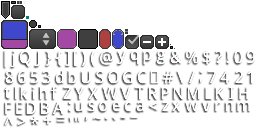
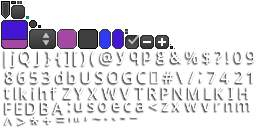
separated some GameMenu logic to more individual methods

Changed region(s): [[0.0, 0.1562, 0.125, 0.3125], [0.375, 0.2188, 0.5, 0.375]]

diff --git a/core/src/main/java/io/github/spacecraft/GameMenu.java b/core/src/main/java/io/github/spacecraft/GameMenu.java
@@ -22,17 +22,32 @@ public class GameMenu {
     private Window popupWindow;
     private float width;
     private float height;
+    private float edgeMargin;
+
+    private TextureRegionDrawable purpleBackground;
+    private TextureRegionDrawable blueBackground;
 
     public GameMenu(Stage stage) {
         this.stage = stage;
-
         skin = new Skin(Gdx.files.internal("uiskin/uiskin.json"));
 
-        createMenuInterface();
-
+        edgeMargin = 25; // the gap around sides of screen (so nav does not squeeze against edge)
         width = Gdx.graphics.getWidth();
         height = Gdx.graphics.getHeight();
 
+        // create button colours
+        Pixmap pixmap = new Pixmap(1, 1, Pixmap.Format.RGBA8888);
+        pixmap.setColor(new Color(66 / 255f, 22 / 255f, 210 / 255f, 1));
+        pixmap.fill();
+        Texture purpleBackgroundTexture = new Texture(pixmap);
+        purpleBackground = new TextureRegionDrawable(new TextureRegion(purpleBackgroundTexture));
+
+        pixmap.setColor(new Color(46 / 255f, 59 / 255f, 240 / 255f, 1));
+        pixmap.fill();
+        Texture blueBackgroundTexture = new Texture(pixmap);
+        blueBackground = new TextureRegionDrawable(new TextureRegion(blueBackgroundTexture));
+
+        createMenuInterface();
     }
 
     private void createMenuInterface() {
@@ -48,35 +63,21 @@ public class GameMenu {
         Texture laboratoryTexture = new Texture("menu_icons/laboratory.png");
         Texture shopTexture = new Texture("menu_icons/shop.png");
 
-        // create purple background for image buttons
-        Pixmap pixmap = new Pixmap(1, 1, Pixmap.Format.RGBA8888);
-        pixmap.setColor(new Color(66 / 255f, 22 / 255f, 210 / 255f, 1));
-        pixmap.fill();
-        Texture purpleBackgroundTexture = new Texture(pixmap);
-        TextureRegionDrawable purpleBackgroundDrawable = new TextureRegionDrawable(new TextureRegion(purpleBackgroundTexture));
+        // create menu buttons
+        ImageButton upgradesButton = createMenuButton(upgradeTexture);
+        ImageButton refineryButton = createMenuButton(refineryTexture);
+        ImageButton homeButton = createMenuButton(homeTexture);
+        ImageButton laboratoryButton = createMenuButton(laboratoryTexture);
+        ImageButton shopButton = createMenuButton(shopTexture);
 
-        // create menu buttons and apply background colour
-        ImageButton upgradesButton = new ImageButton(new TextureRegionDrawable(new TextureRegion(upgradeTexture)));
-        upgradesButton.getStyle().up = purpleBackgroundDrawable;
-        ImageButton refineryButton = new ImageButton(new TextureRegionDrawable(new TextureRegion(refineryTexture)));
-        refineryButton.getStyle().up = purpleBackgroundDrawable;
-        ImageButton homeButton = new ImageButton(new TextureRegionDrawable(new TextureRegion(homeTexture)));
-        homeButton.getStyle().up = purpleBackgroundDrawable;
-        ImageButton laboratoryButton = new ImageButton(new TextureRegionDrawable(new TextureRegion(laboratoryTexture)));
-        laboratoryButton.getStyle().up = purpleBackgroundDrawable;
-        ImageButton shopButton = new ImageButton(new TextureRegionDrawable(new TextureRegion(shopTexture)));
-        shopButton.getStyle().up = purpleBackgroundDrawable;
-
-        // calculate button size to fit edge to edge of screen
+        // calculate button size dynamically to fit all screen sizes
         int numOfButtons = 5;
-        float edgeMargin = 25;
         float margin = 10; // space between buttons
         float totalMargin = margin * (numOfButtons - 1);
-
-        float availableWidth = Gdx.graphics.getWidth() - edgeMargin * 2 - totalMargin;
-
+        float availableWidth = width - edgeMargin * 2 - totalMargin;
         float buttonWidth = availableWidth / numOfButtons;
         float buttonHeight = buttonWidth;
+
         // add buttons to table
         buttonTable.add(upgradesButton).size(buttonWidth, buttonHeight).padRight(margin);
         buttonTable.add(refineryButton).size(buttonWidth, buttonHeight).padRight(margin);
@@ -84,60 +85,37 @@ public class GameMenu {
         buttonTable.add(laboratoryButton).size(buttonWidth, buttonHeight).padRight(margin);
         buttonTable.add(shopButton).size(buttonWidth, buttonHeight);
 
-        buttonTable.setY(25);
+        buttonTable.setY(edgeMargin);
 
         // add table to stage
         stage.addActor(buttonTable);
 
         // add listeners to buttons
-        upgradesButton.addListener(new ClickListener() {
-            @Override
-            public void clicked(InputEvent event, float x, float y) {
-                Table upgradesContent = createUpgradesContent();
-                showPopup("Upgrades", buttonHeight, upgradesContent);
-            }
-        });
-        refineryButton.addListener(new ClickListener() {
-            @Override
-            public void clicked(InputEvent event, float x, float y) {
-                Table refineryContent = createRefineryContent();
-                showPopup("Refinery", buttonHeight, refineryContent);
-            }
-        });
+        upgradesButton.addListener(createButtonListener("Upgrades", buttonHeight, createUpgradesContent()));
+        refineryButton.addListener(createButtonListener("Refinery", buttonHeight, createRefineryContent()));
         homeButton.addListener(new ClickListener() {
-            @Override
+            @Override // home button is done manually because it just closes other menus
             public void clicked(InputEvent event, float x, float y) {
                 closePopup();
             }
         });
-        laboratoryButton.addListener(new ClickListener() {
-            @Override
-            public void clicked(InputEvent event, float x, float y) {
-                Table upgradesContent = createUpgradesContent();
-                showPopup("Laboratory", buttonHeight, upgradesContent);
-            }
-        });
-        shopButton.addListener(new ClickListener() {
-            @Override
-            public void clicked(InputEvent event, float x, float y) {
-                Table upgradesContent = createUpgradesContent();
-                showPopup("Shop", buttonHeight, upgradesContent);
-            }
-        });
+        laboratoryButton.addListener(createButtonListener("Laboratory", buttonHeight, createLaboratoryContent()));
+        shopButton.addListener(createButtonListener("Shop", buttonHeight, createShopContent()));
     }
+
     private void showPopup(String title, float buttonHeight, Table contentTable) {
         // remove previous popup if exists
         if (popupWindow != null) {
             popupWindow.remove();
         }
 
-        float totalWidth = width - 25 * 2;
+        float totalWidth = width - edgeMargin * 2;
 
         // create new popup window
         popupWindow = new Window(title, skin);
         popupWindow.setY(buttonHeight + 50);
         popupWindow.setSize(totalWidth, height * 0.3f);
-        popupWindow.setX(25);
+        popupWindow.setX(edgeMargin);
 
         // add content table to window
         popupWindow.add(contentTable).expand().fill(); // make content fill the popup
@@ -156,12 +134,31 @@ public class GameMenu {
         }
     }
 
+    private ImageButton createMenuButton(Texture buttonTexture) {
+        ImageButton button = new ImageButton(new TextureRegionDrawable(new TextureRegion(buttonTexture)));
+        button.getStyle().up = purpleBackground; // default background colour
+        button.getStyle().down = blueBackground; // on press background colour
+        return button;
+
+    }
+
+    private ClickListener createButtonListener(String buttonTitle, float buttonHeight, Table contentTable) {
+        return new ClickListener() {
+            @Override
+            public void clicked(InputEvent event, float x, float y) {
+                showPopup(buttonTitle, buttonHeight, contentTable);
+            }
+        };
+    }
+
     private Table createUpgradesContent() {
         Table contentTable = new Table();
         contentTable.setFillParent(true);
 
+        // add specific menu content here
         TextButton upgradeHarvestTimeButton = new TextButton("Upgrade Harvest Time", skin);
         upgradeHarvestTimeButton.setSize(100, 100);
+
         // add listeners for buttons
         upgradeHarvestTimeButton.addListener(new ClickListener() {
             @Override
@@ -174,11 +171,11 @@ public class GameMenu {
 
         return contentTable;
     }
-
     private Table createRefineryContent() {
         Table contentTable = new Table();
         contentTable.setFillParent(true);
 
+        // add specific menu content here
         TextButton refineAsteroidButton = new TextButton("Refine Asteroid", skin);
 
         // add listeners for buttons
@@ -190,6 +187,44 @@ public class GameMenu {
         });
 
         contentTable.add(refineAsteroidButton).pad(10).expandX();
+
+        return contentTable;
+    }
+    private Table createLaboratoryContent() {
+        Table contentTable = new Table();
+        contentTable.setFillParent(true);
+
+        // add specific menu content here
+        TextButton researchButton = new TextButton("Research in Laboratory", skin);
+
+        // add listeners for buttons
+        researchButton.addListener(new ClickListener() {
+            @Override
+            public void clicked(InputEvent event, float x, float y) {
+                Gdx.app.log("Laboratory", "Researching in Laboratory");
+            }
+        });
+
+        contentTable.add(researchButton).pad(10).expandX();
+
+        return contentTable;
+    }
+    private Table createShopContent() {
+        Table contentTable = new Table();
+        contentTable.setFillParent(true);
+
+        // add specific menu content here
+        TextButton shopButton = new TextButton("Buy Something", skin);
+
+        // add listeners for buttons
+        shopButton.addListener(new ClickListener() {
+            @Override
+            public void clicked(InputEvent event, float x, float y) {
+                Gdx.app.log("Shop", "Buying something in Shop");
+            }
+        });
+
+        contentTable.add(shopButton).pad(10).expandX();
 
         return contentTable;
     }
